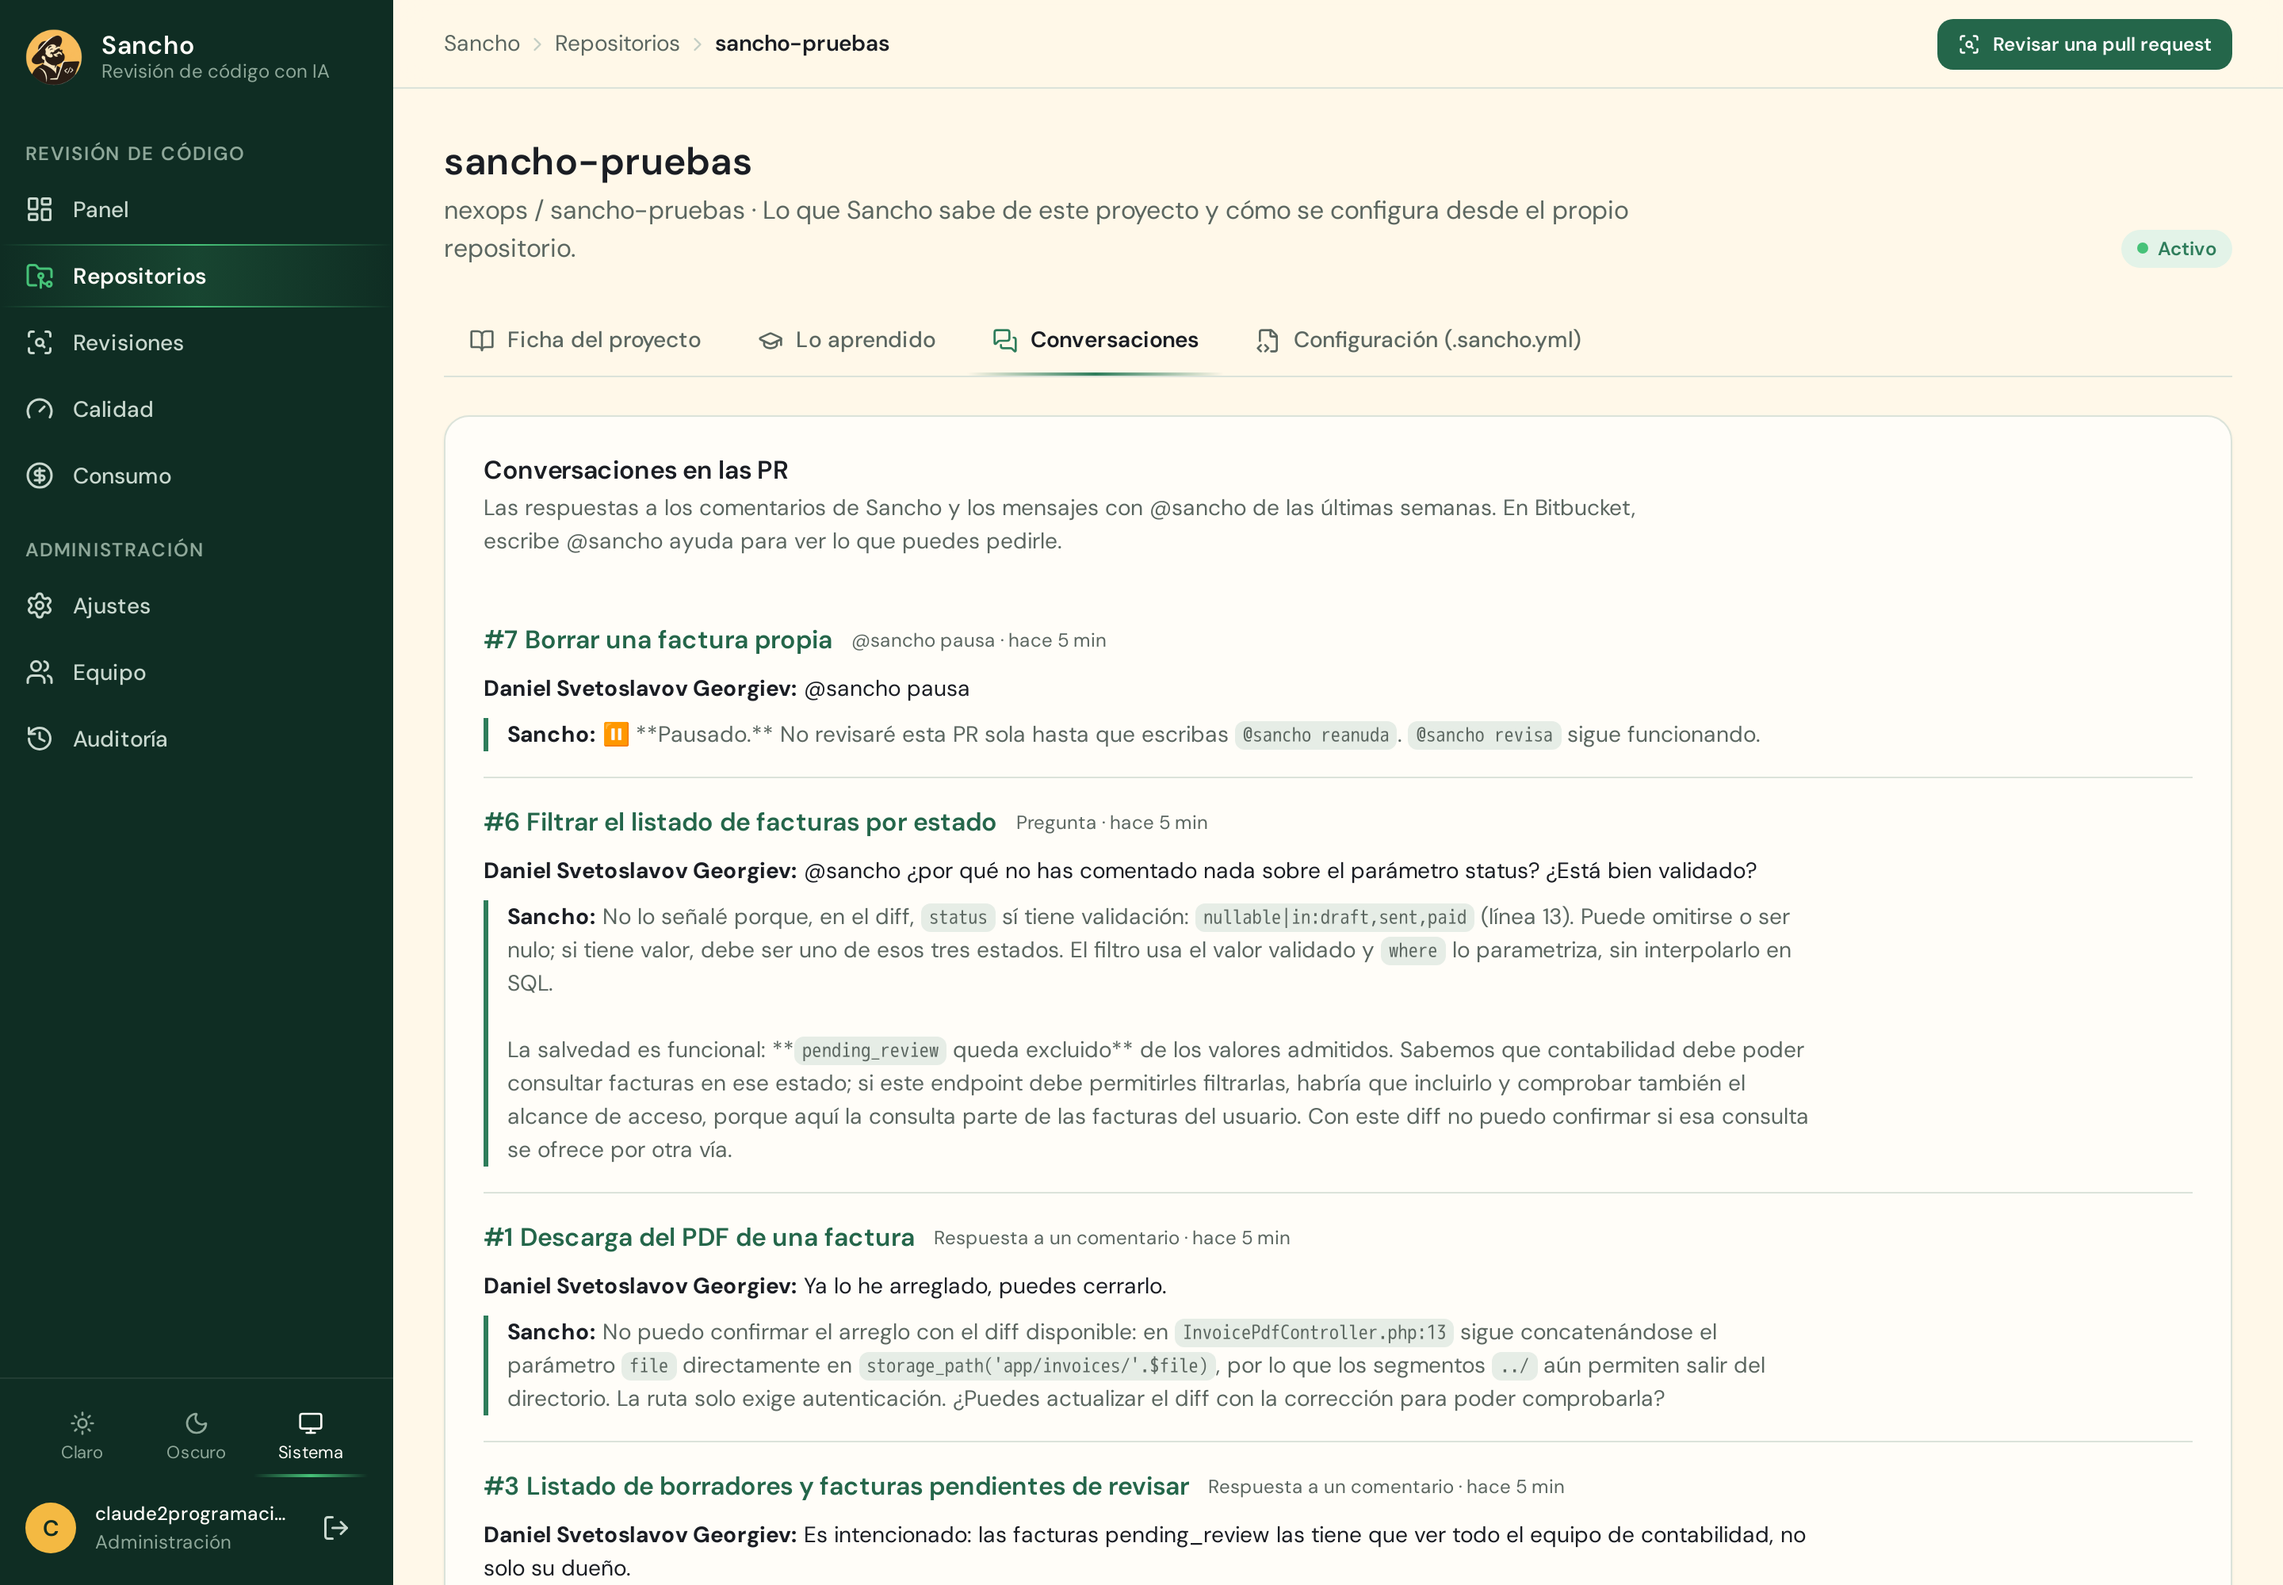
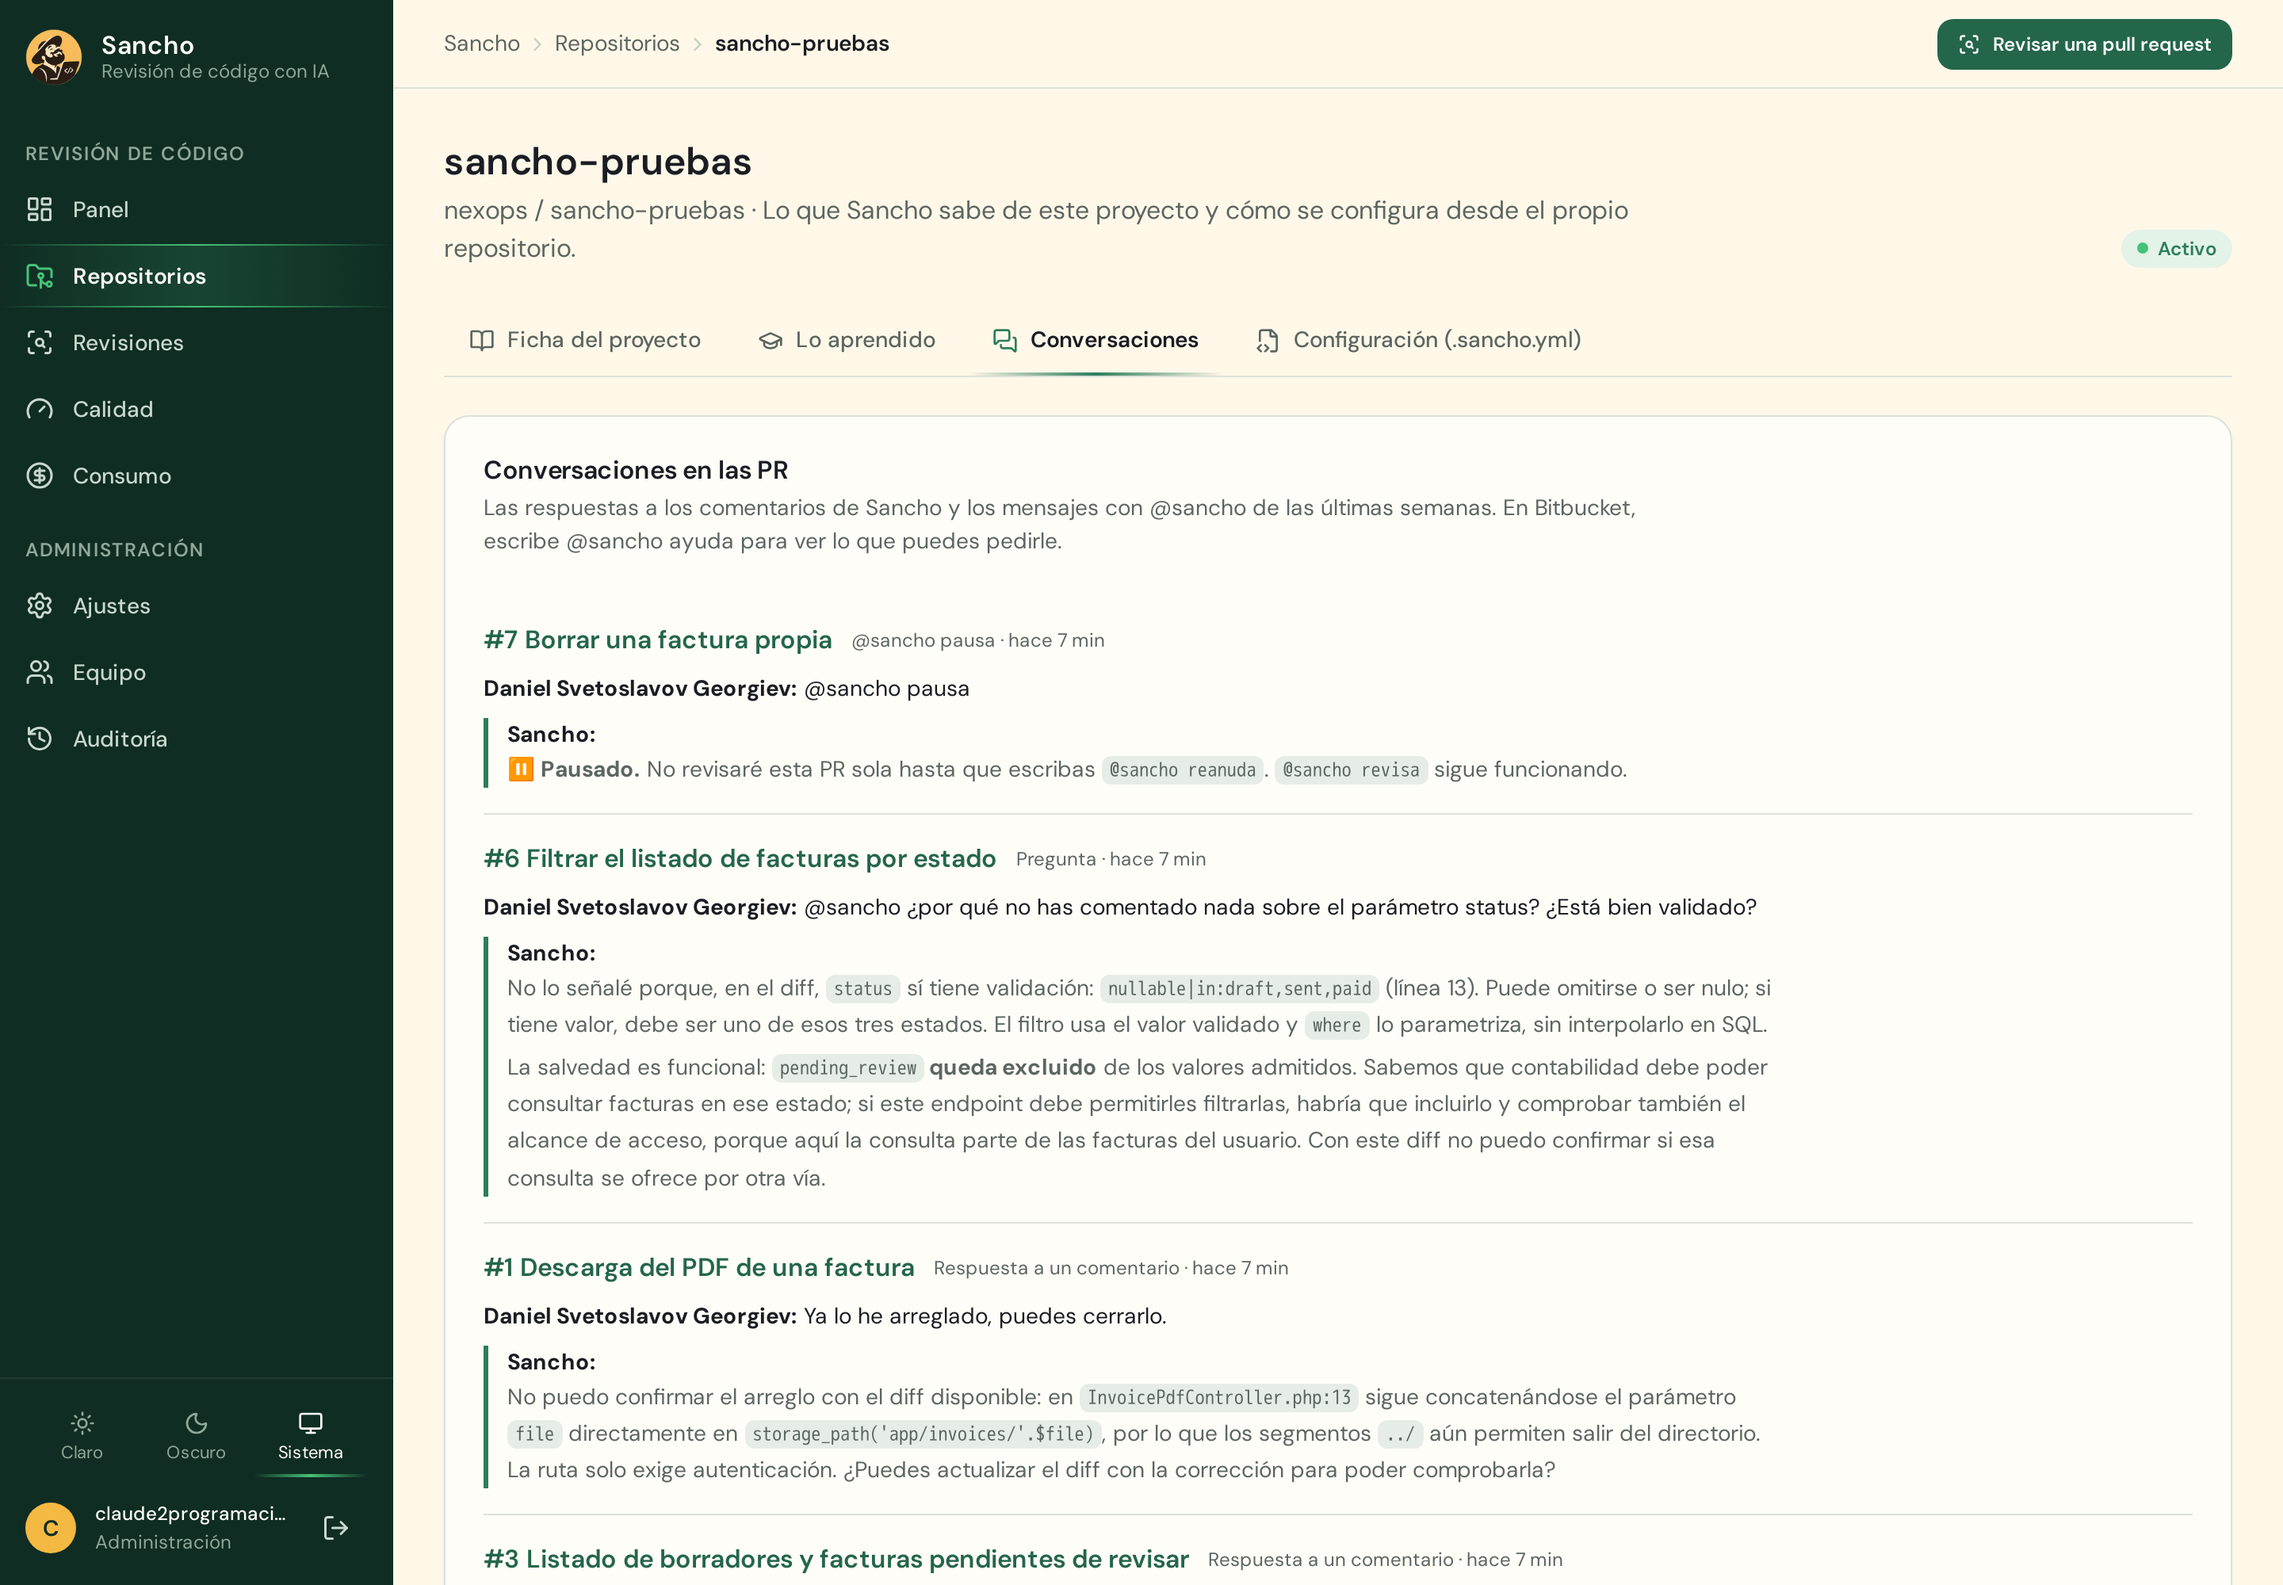
docs: capturas de Conversaciones, Lo aprendido y Calidad, y resultado de las pruebas reales

Changed region(s): [[0.1875, 0.434, 0.7812, 1.0]]

diff --git a/PROGRESS.md b/PROGRESS.md
@@ -134,3 +134,12 @@ Rama `mejoras`. Probado con Bitbucket, OpenAI y el cerebro simulados: **52 prueb
 - **Análisis estático** (D27): `src/static-analysis.ts`. Probado con las herramientas reales dentro de la imagen: gitleaks 8.28.0 detecta un token de GitHub sin que su valor aparezca en el informe, y PHP 8.4.26 detecta un error de sintaxis en la línea correcta.
 - **Calidad** (D28): pantalla «Calidad» (`src/quality.ts`, `GET /api/quality`) y `npm run eval` con 6 casos en `evals/casos`. **Sin ejecutar todavía contra el modelo real.**
 - **Arreglado:** la migración volvía a aplicar en cada arranque CHECK antiguos de `publication_operations` y `prompt_versions`. Con una fila `resolve` o una instrucción de conversación guardada, el servidor no habría arrancado.
+
+## Pruebas reales con Bitbucket y OpenAI (16-10-2026)
+
+- El workspace `dasge97` está en solo lectura (el plan gratuito supera su límite de usuarios). Las pruebas se hacen en un repositorio privado nuevo, `nexops/sancho-pruebas`, con la conexión de Sancho cambiada al workspace `nexops`. El repositorio antiguo de `dasge97` queda pausado.
+- Motor: OpenAI (`gpt-6.1-sol`). La sesión de Claude del servidor sigue caducada.
+- **8 PR reales, revisadas y publicadas solas por webhook.** Las 4 con errores reciben comentarios correctos: path traversal en la descarga del PDF, edición sin autorización y asignación masiva (con sugerencia de código), `orWhere` que expone facturas ajenas, y una clave `sk_live_` (la encuentra gitleaks). Las 4 limpias (README, filtro validado, borrado con política, accesor del modelo) no reciben ningún comentario de problemas: solo el resumen «sin problemas encontrados».
+- **Conversación real:** no retira un problema ante una excusa que no lo resuelve, no cierra un comentario con «ya lo he arreglado» sin commit nuevo, contesta bien una pregunta con `@sancho` y pausa la PR con `@sancho pausa`.
+- **Banco de pruebas** (`npm run eval`, en el servidor): primera pasada 100 % de precisión y 75 % de cobertura; fallaba la asignación masiva porque el contexto no incluía el modelo `User`. Con el arreglo de `src/context.ts`, 100 % de precisión y de cobertura en 2 pasadas; los casos limpios, sin comentarios. 0,18 USD.
+- **Sin confirmar:** si Bitbucket permite aplicar el bloque `suggestion` con un clic.

diff --git a/README.es.md b/README.es.md
@@ -139,6 +139,13 @@ El agente usa la suscripción de Claude del servidor o una clave de Anthropic. C
     <td><img src="docs/img/reglas.png" alt="Reglas de revisión generales y por repositorio."><br><sub><b>Reglas del equipo.</b> Qué vigilar y qué ignorar, en general y por repositorio.</sub></td>
     <td><img src="docs/img/oscuro.png" alt="Qué se ha revisado en una revisión, en modo oscuro, con los ficheros que leyó el agente."><br><sub><b>Modo oscuro.</b> Y qué ficheros abrió el agente en cada revisión.</sub></td>
   </tr>
+  <tr>
+    <td><img src="docs/img/conversaciones.png" alt="Pestaña Conversaciones de un repositorio: mensajes del equipo en las PR y las respuestas de Sancho, como pausar una PR o explicar por qué un parámetro está bien validado."><br><sub><b>Conversaciones.</b> Lo que el equipo le dice en las PR y lo que contesta.</sub></td>
+    <td><img src="docs/img/aprendido.png" alt="Pestaña Lo aprendido: una regla sacada de una conversación, con su interruptor para desactivarla y el botón Borrar."><br><sub><b>Lo aprendido.</b> Reglas que salen de las conversaciones y de los falsos positivos.</sub></td>
+  </tr>
+  <tr>
+    <td colspan="2"><img src="docs/img/calidad.png" alt="Pantalla Calidad: acierto, problemas publicados, arreglados con un commit y falsos positivos, con tablas por versión de las instrucciones, tipo y gravedad."><br><sub><b>Calidad.</b> Cuánto de lo que señala le sirve al equipo, por versión de las instrucciones, tipo y repositorio.</sub></td>
+  </tr>
 </table>
 
 <p align="center">

diff --git a/README.md b/README.md
@@ -141,6 +141,13 @@ The agent uses the server's Claude subscription or an Anthropic key. As an alter
     <td><img src="docs/img/reglas.png" alt="Global and per-repository review rules."><br><sub><b>Team rules.</b> What to watch and what to ignore, globally and per repository.</sub></td>
     <td><img src="docs/img/oscuro.png" alt="What a review covered, in dark mode, with the files the agent read."><br><sub><b>Dark mode.</b> And which files the agent opened in each review.</sub></td>
   </tr>
+  <tr>
+    <td><img src="docs/img/conversaciones.png" alt="Conversations tab of a repository: team messages in pull requests and Sancho's replies, such as pausing a pull request or explaining why a parameter is properly validated."><br><sub><b>Conversations.</b> What the team tells it in pull requests, and its answers.</sub></td>
+    <td><img src="docs/img/aprendido.png" alt="What it learned tab: a rule taken from a conversation, with a switch to turn it off and a Delete button."><br><sub><b>What it learned.</b> Rules that come from conversations and false positives.</sub></td>
+  </tr>
+  <tr>
+    <td colspan="2"><img src="docs/img/calidad.png" alt="Quality screen: hit rate, published problems, problems fixed by a commit and false positives, with tables by instructions version, type and severity."><br><sub><b>Quality.</b> How much of what it flags helps the team, by instructions version, type and repository.</sub></td>
+  </tr>
 </table>
 
 <p align="center">
